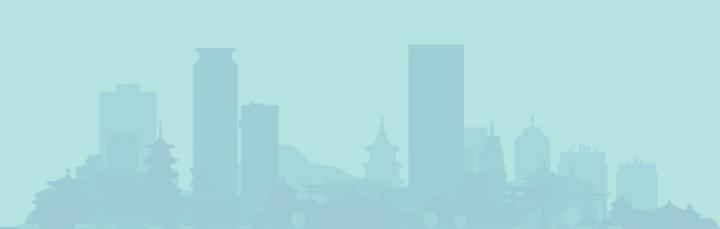
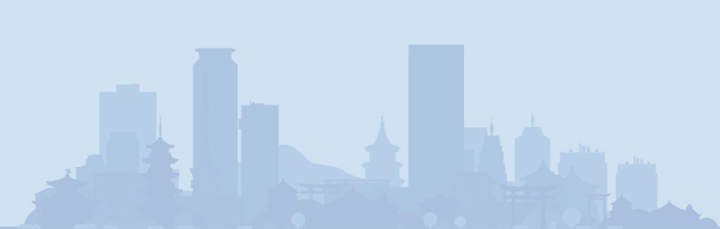
變更配色

diff --git a/index.html b/index.html
@@ -1203,10 +1203,43 @@
             <div class="content row col-12 col-lg-9 m-auto">
                 <a name="qa"></a>
                 <h1 class="text-center">Q&amp;A</h1>
-                <div class="">
-                    <ul>
-                        <li></li>
-                    </ul>
+                <div class="accordion mt-5 mb-5" id="qaAccordion">
+                    <div class="accordion-item">
+                        <h2 class="accordion-header">
+                            <button class="accordion-button collapsed" type="button" data-bs-toggle="collapse" role="button" data-bs-target="#qa001" aria-expanded="true" aria-controls="qa001">
+                                Question 1
+                            </button>
+                        </h2>
+                        <div id="qa001" class="accordion-collapse collapse" data-bs-parent="#qaAccordion">
+                            <div class="accordion-body">
+                                <p>Answer 1</p>
+                            </div>
+                        </div>
+                    </div>
+                    <div class="accordion-item">
+                        <h2 class="accordion-header">
+                            <button class="accordion-button collapsed" type="button" data-bs-toggle="collapse" role="button" data-bs-target="#qa002" aria-expanded="false" aria-controls="qa002">
+                                Question 2
+                            </button>
+                        </h2>
+                        <div id="qa002" class="accordion-collapse collapse" data-bs-parent="#qaAccordion">
+                            <div class="accordion-body">
+                                <p>Answer 2</p>
+                            </div>
+                        </div>
+                    </div>
+                    <div class="accordion-item">
+                        <h2 class="accordion-header">
+                            <button class="accordion-button collapsed" type="button" data-bs-toggle="collapse" role="button" data-bs-target="#qa003" aria-expanded="false" aria-controls="qa003">
+                                Question 3
+                            </button>
+                        </h2>
+                        <div id="qa003" class="accordion-collapse collapse" data-bs-parent="#qaAccordion">
+                            <div class="accordion-body">
+                                <p>Answer 3</p>
+                            </div>
+                        </div>
+                    </div>
                 </div>
             </div>
         </section>
@@ -1214,7 +1247,7 @@
             <div class="content row col-12 col-lg-9 m-auto">
                 <a name="discount"></a>
                 <h1 class="text-center">報名優惠</h1>
-                <div>
+                <div class="mt-5 mb-5">
                     
                 </div>
             </div>

diff --git a/css/global.css b/css/global.css
@@ -1,17 +1,23 @@
 :root {
-    --bs-body-bg: #b5e3e1;
-    --bs-primary-bg: #5776b7;
-    --bs-primary-rgb: 87, 118, 183;
-    --bs-secondary-bg: #0ba29b;
-    --bs-secondary-rgb: 11, 162, 155;
-    --bs-third-bg: #5dc3c8;
-    --bs-third-rgb: 93, 195, 200;
+    --bs-body-bg: #d0e1f1;
+    --bs-primary-bg: #1c449b;
+    --bs-primary-rgb: 28, 68, 155;
+    --bs-secondary-bg: #5776b7;
+    --bs-secondary-rgb: 87, 118, 183;
+    --bs-third-bg: #2555a7;
+    --bs-third-rgb: 37, 85, 167;
 
 }
 
 .btn.btn-primary {
-    --bs-btn-bg: #0236a5;
-    --bs-btn-hover-bg: #0585e6;
+    --bs-btn-bg: #15a1a0;
+    --bs-btn-hover-bg: #5ebfc6;
+    --bs-btn-hover-border-color: #a2e1e5;
+    --bs-btn-border-color: #5ebfc6;
+    --bs-btn-disabled-bg: #045e5a;
+    --bs-btn-disabled-border-color: #265d61;
+    --bs-btn-active-bg: #15a1a0;
+    --bs-btn-active-border-color: #5ebfc6;
 }
 
 * {
@@ -235,6 +241,16 @@ section.area {
 
 .daily.daily-row:not(:last-child) {
     border-bottom: 1px solid var(--bs-primary-bg);
+}
+
+.accordion-button {
+    /*background-color: var(--bs-primary-bg);
+    color: #fff;*/
+    border: 2px solid var(--bs-primary-bg);
+}
+
+.accordion-body {
+    border: 1px solid var(--bs-primary-bg);
 }
 
 @media (max-width: 767.99px) {
